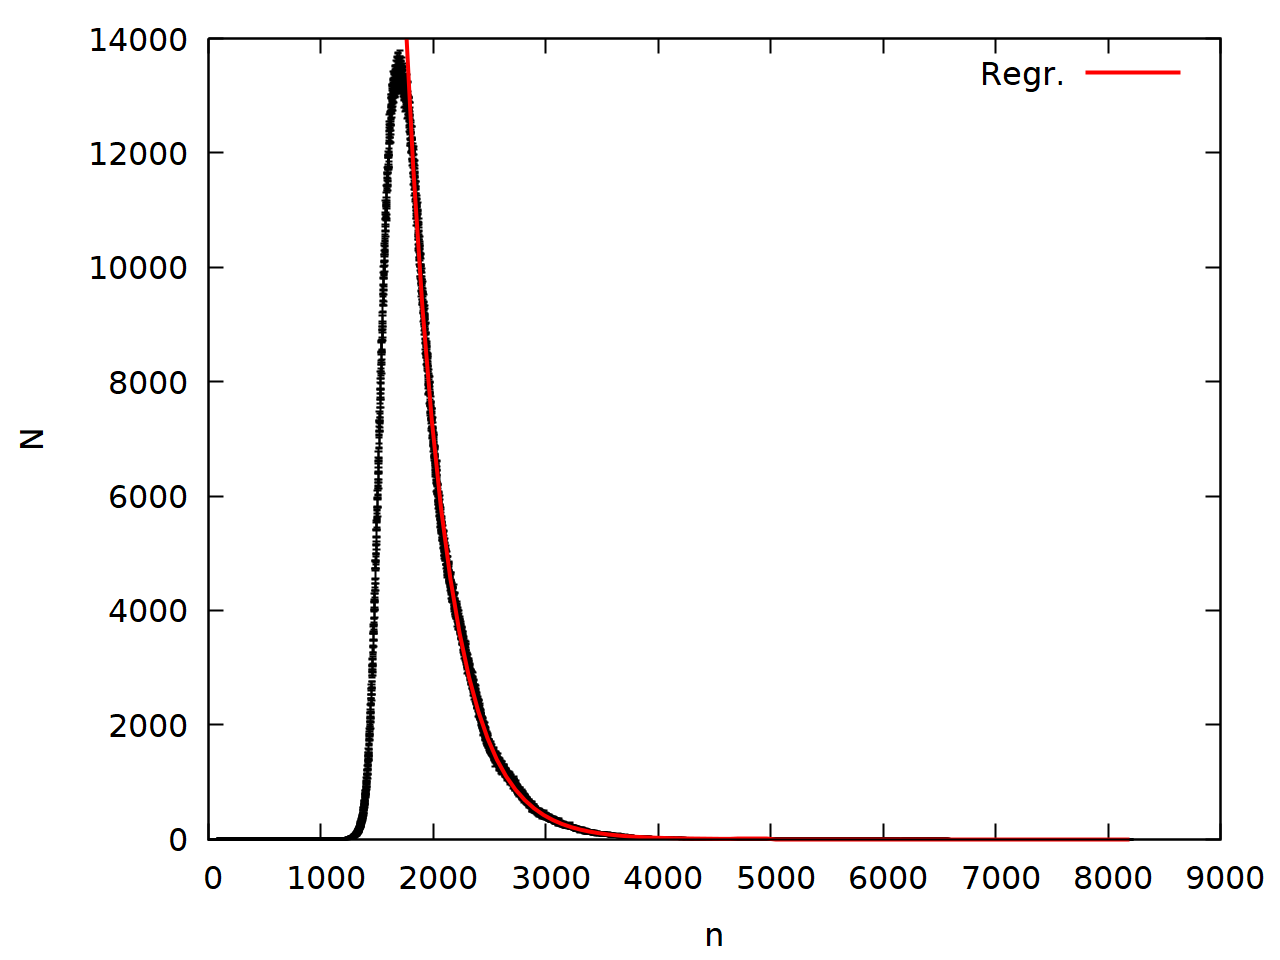
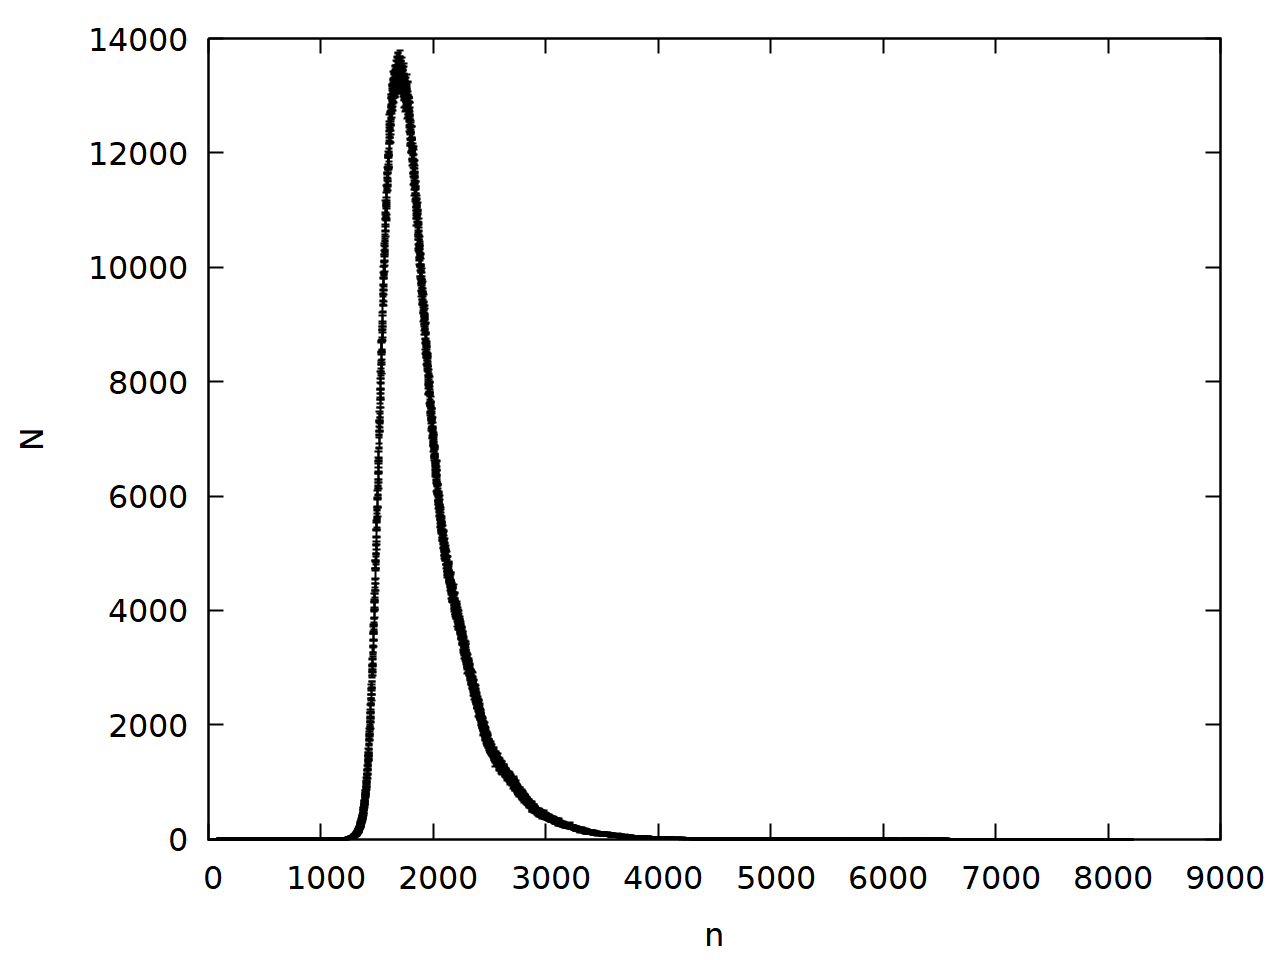
auswertung lebensdauer

diff --git a/525/auswertung_friedrich.tex b/525/auswertung_friedrich.tex
@@ -49,4 +49,28 @@ a &= (41,5 \pm 0,2) \si{\nano\second}^{-1}\\
 b &= (1,42 \pm 0,01) \cdot 10^{3}\\
 \end{align*}
 
-Das bedeutet, dass \SI{16}{\nano\second} 41,5 Bins entsprechen. 
+Das bedeutet, dass \SI{16}{\nano\second} 41,5 Bins entsprechen.
+
+\subsection{Bestimmung der Lebensdauer}
+
+\begin{figure}
+\centering
+\includegraphics[width=0.7\linewidth]{data/uebernacht.png}
+\caption{Ergebnis der Lebensdauermessung}
+\label{fig:halflife}
+\end{figure}
+
+\begin{figure}
+\centering
+\includegraphics[width=0.7\linewidth]{data/uebernacht2.png}
+\caption{Exponentieller Fit an die Lebensdauermessung}
+\label{fig:halflife2}
+\end{figure}
+
+In Abb. \ref{fig:halflife} sind die gemessenen Ereignisse über den Bins aufgetragen. An diesen Daten wird nun im fallendem Bereich ($n \geq 1750$) ein exponentieller Fit durchgeführt $b\cdot e^{-c\cdot (n-1750)}$ (siehe Abb. \ref{fig:halflife2}). Der Fit ergibt:
+\begin{align*}
+b &= (14,41 \pm 0,02) \cdot 10^3\\
+c &= (2,87 \pm 0,002) \cdot 10^{-3} \mathrel{\widehat{=}} (119,2 \pm 0,7)\cdot 10^{-3} \si{\nano\second}^{-1}\\
+\end{align*}
+
+Daraus folgt, dass die Halbwertszeit $T_{1/2} = \frac{\ln{2}}{c} = (5,81 \pm 0,03) \si{\nano\second}$
